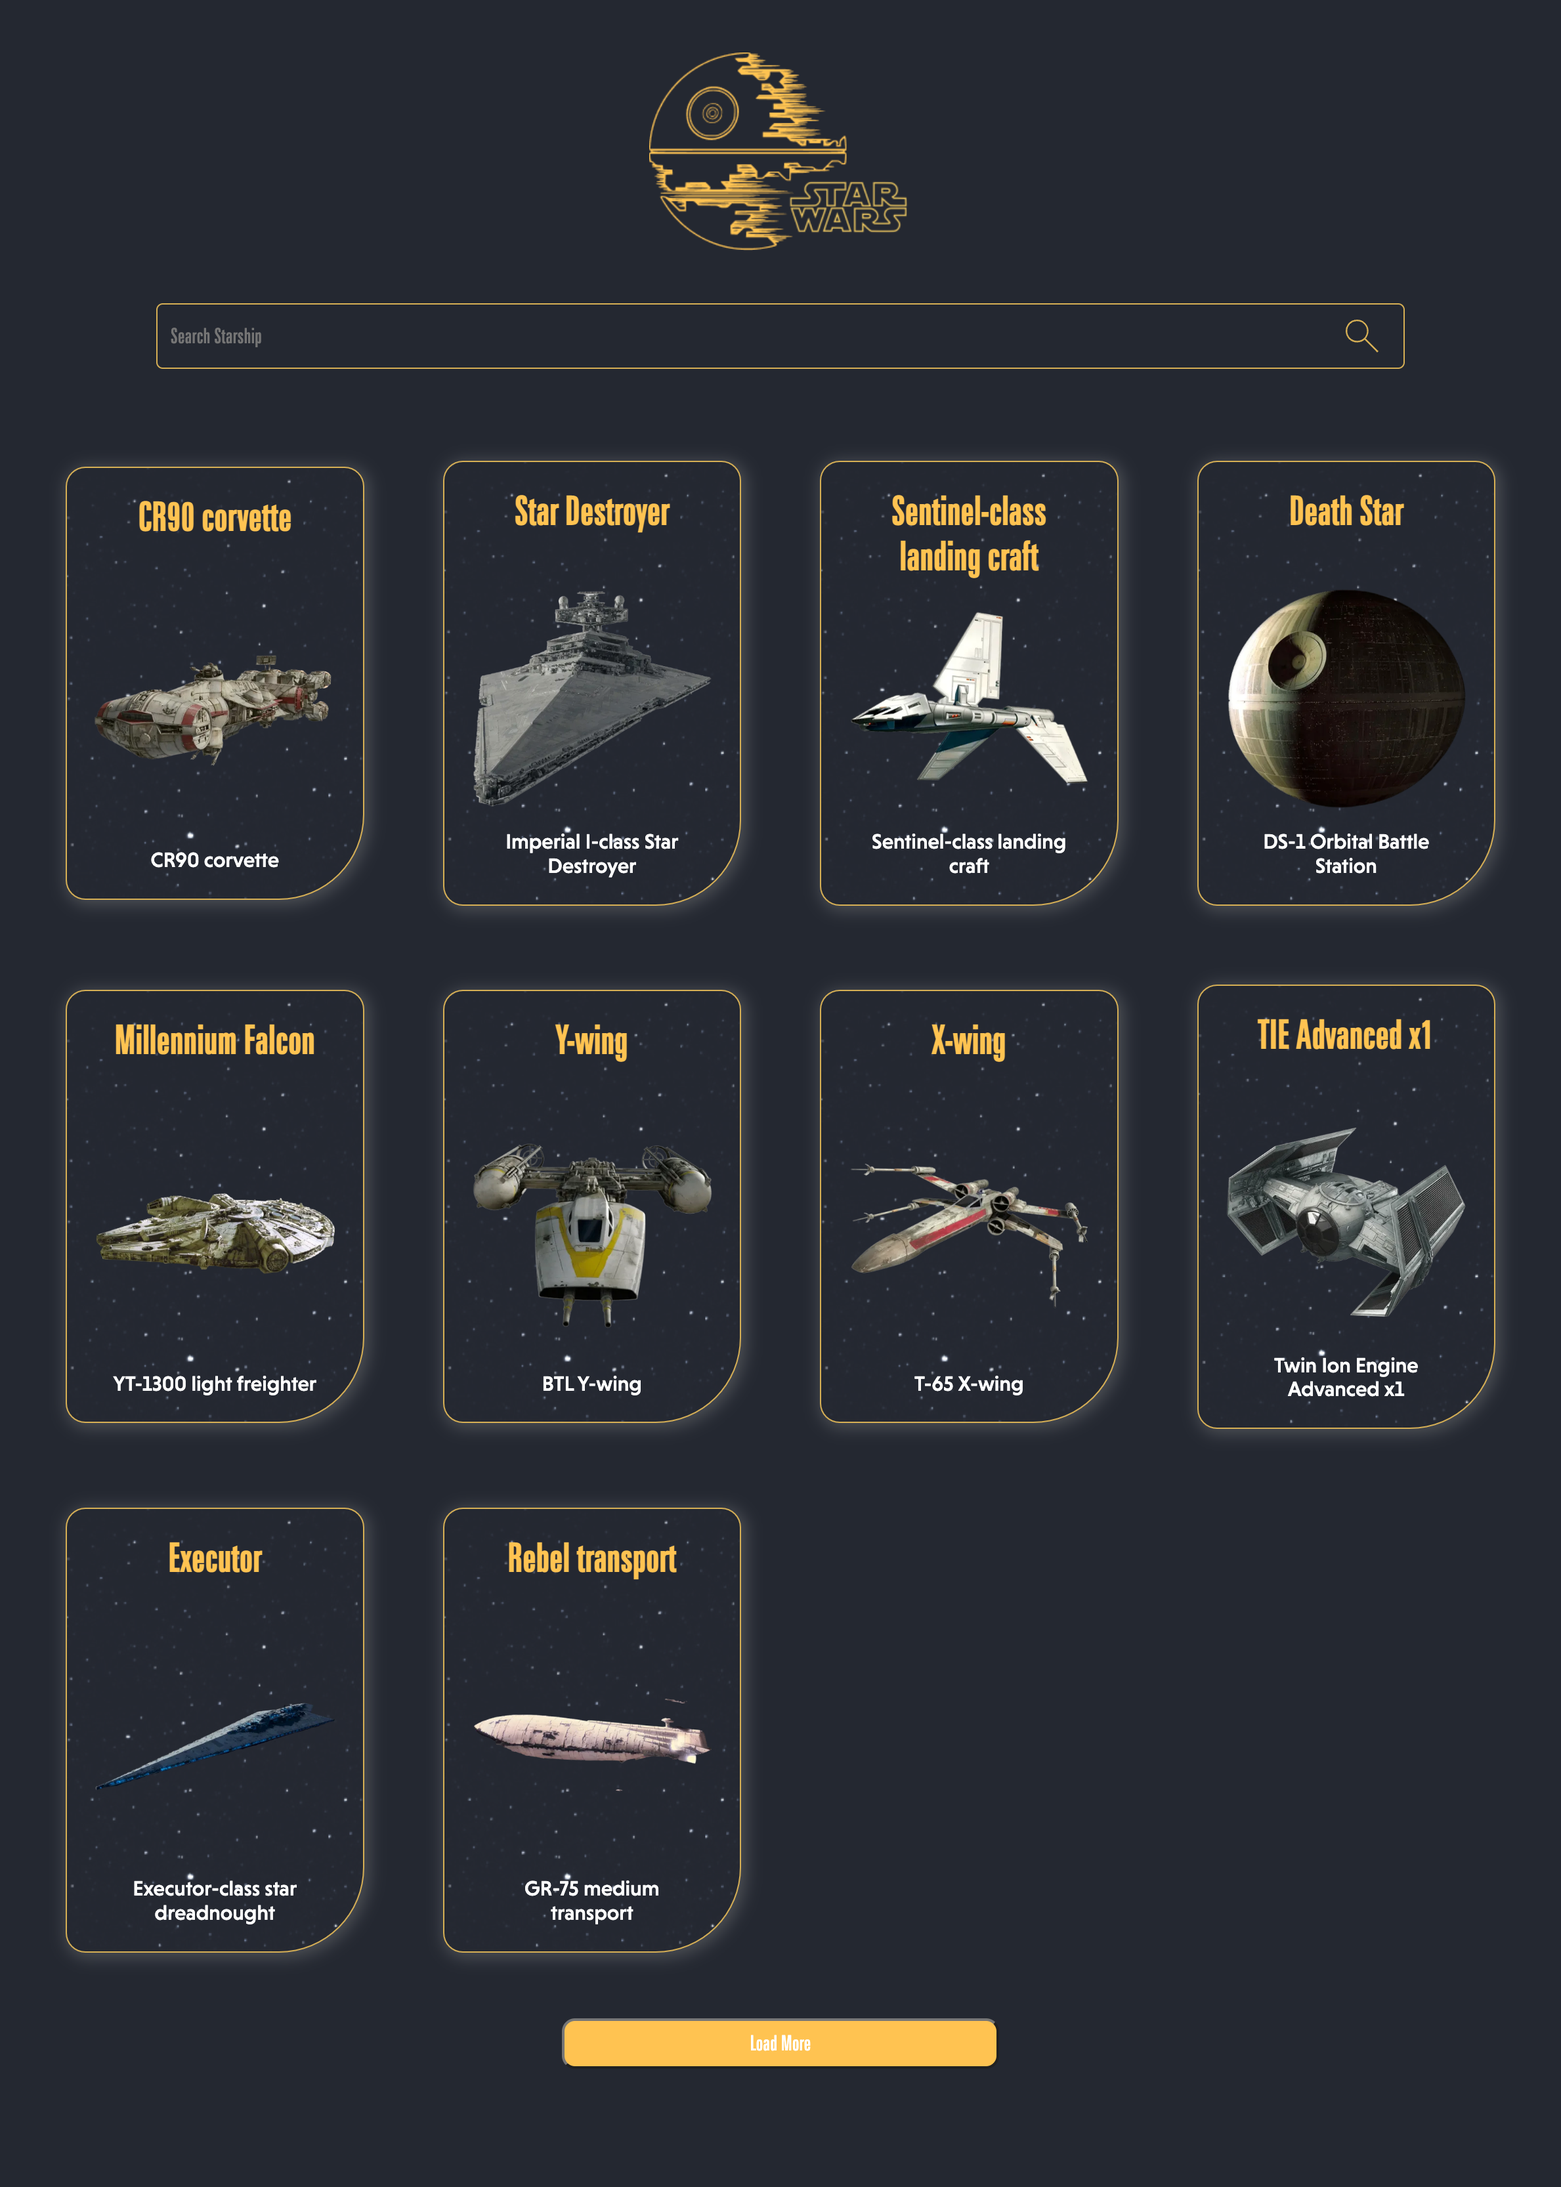
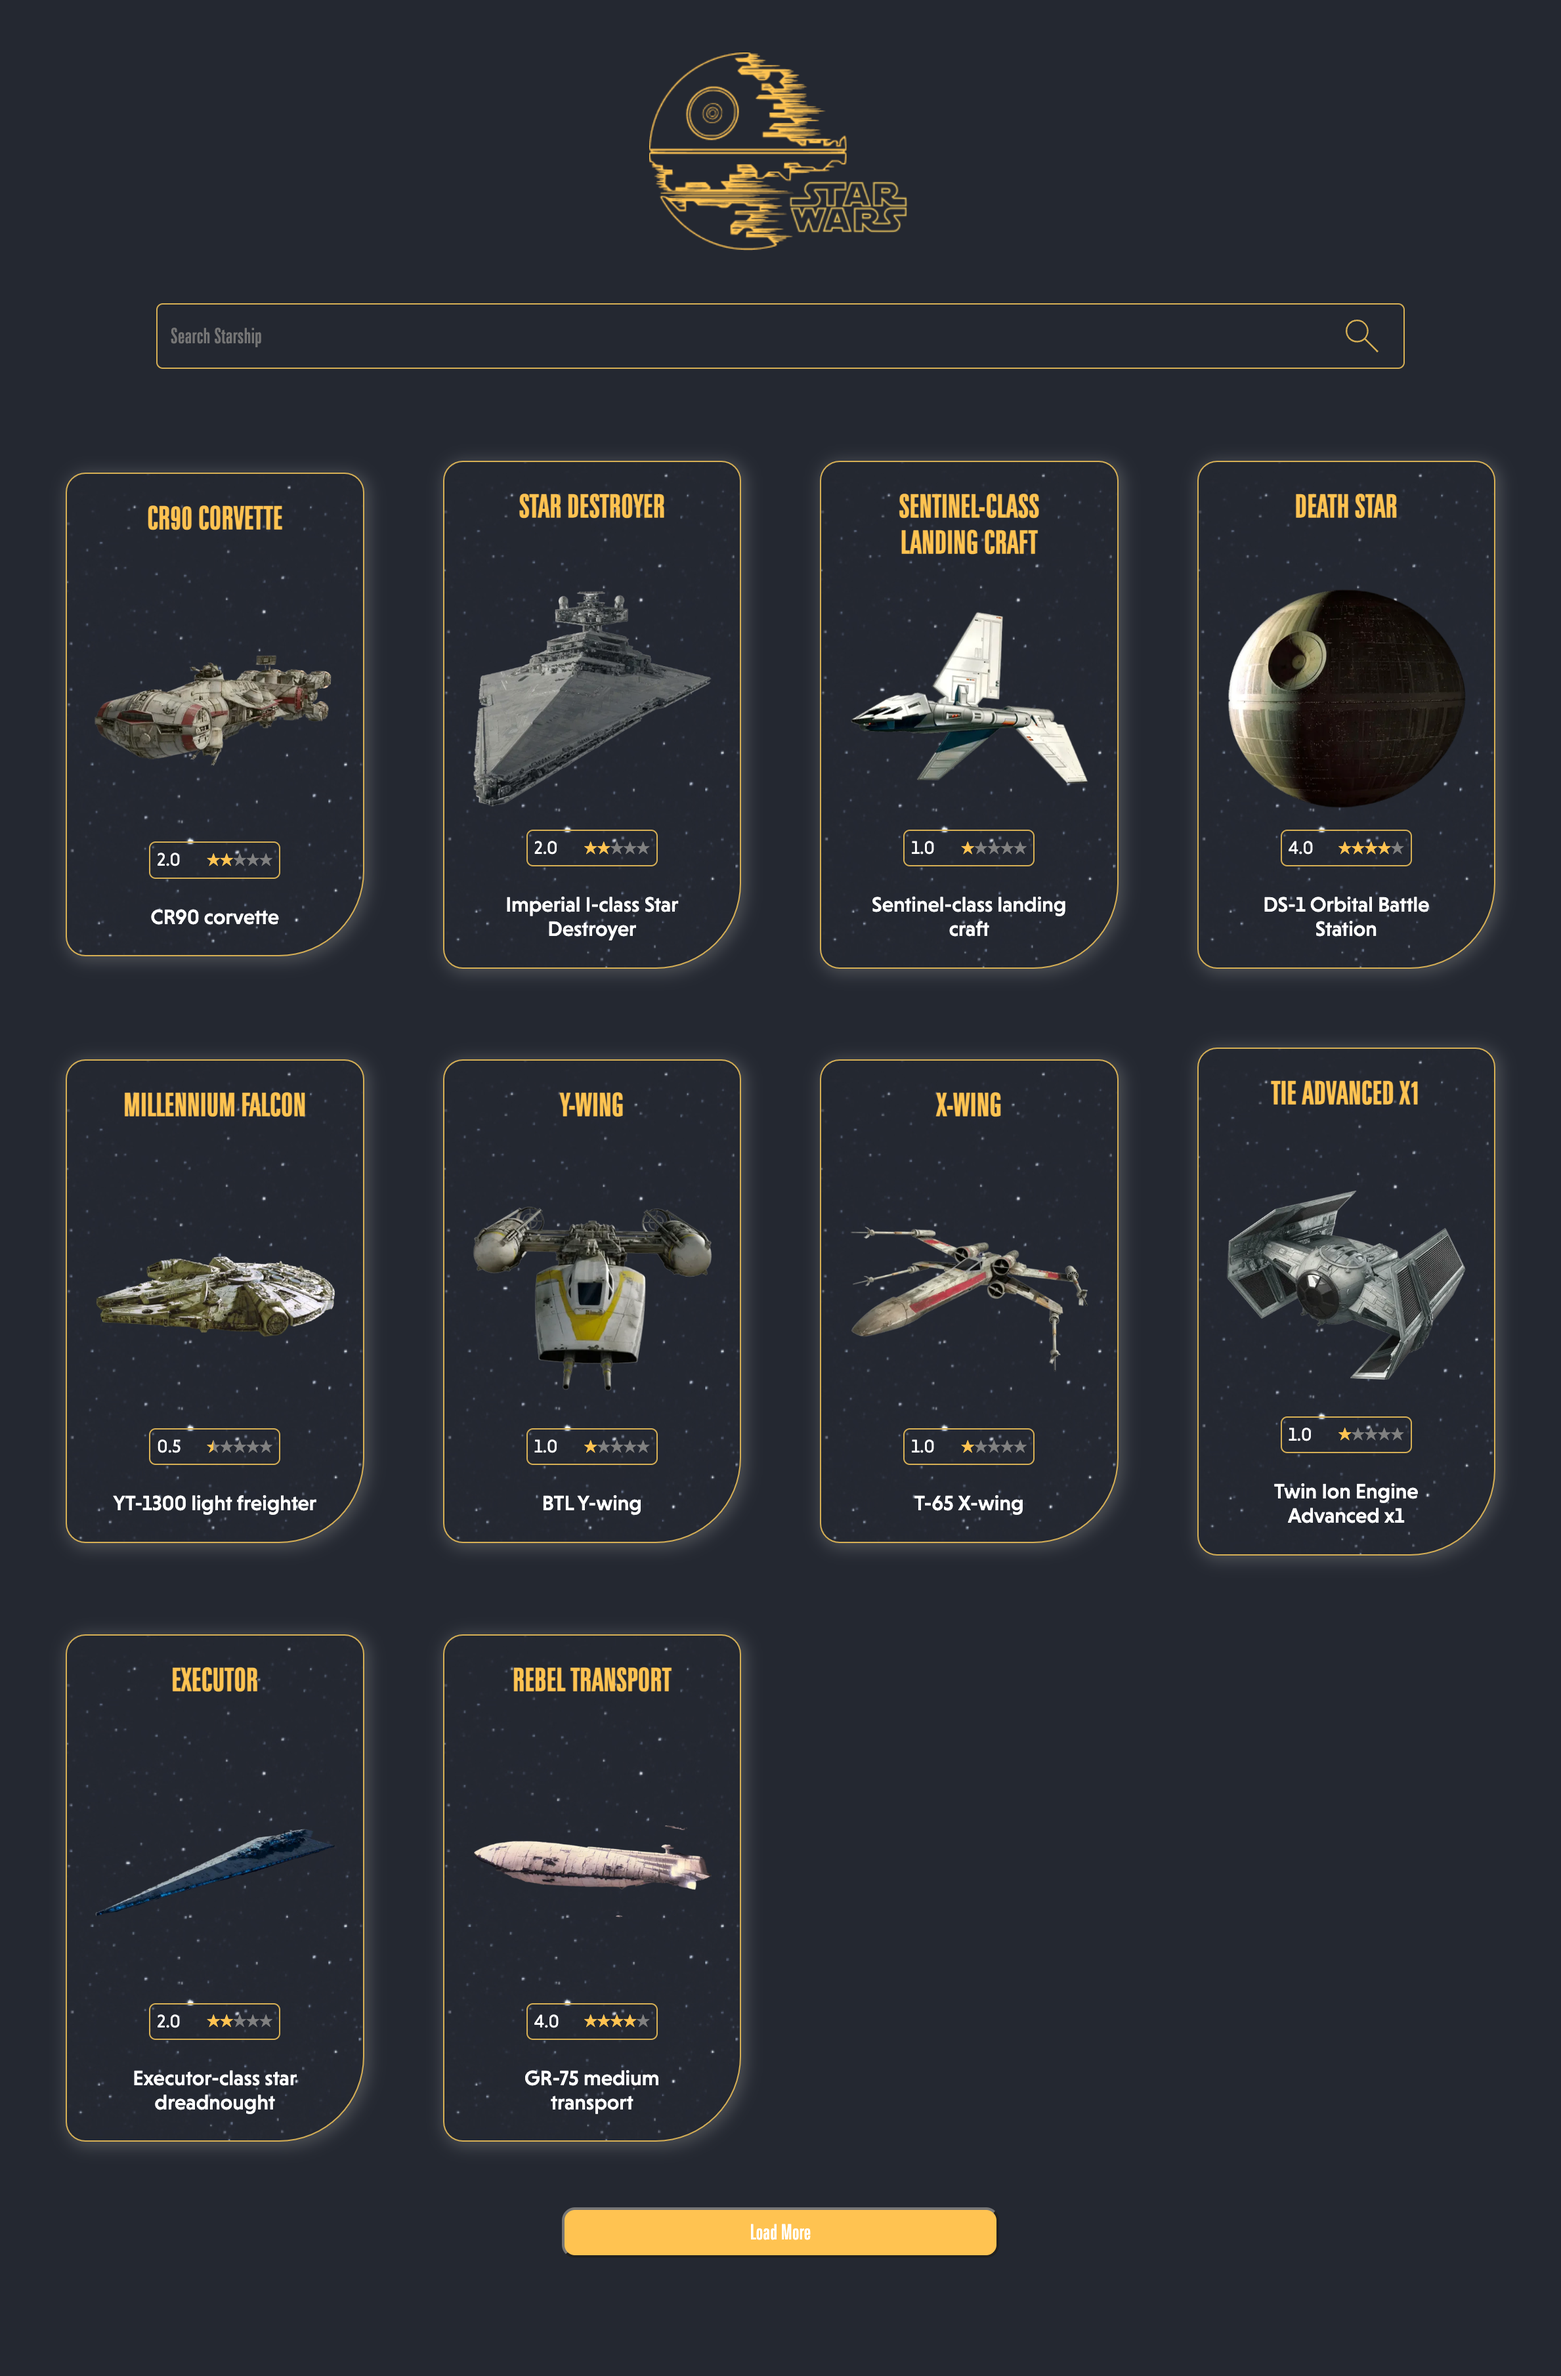
--amend

diff --git a/src/pages/Starships/components/StarshipCard/StarshipCard.jsx b/src/pages/Starships/components/StarshipCard/StarshipCard.jsx
@@ -1,6 +1,7 @@
 import React from 'react';
-import getStarshipId from '../../utils/getStarshipId';
 import ReactStars from 'react-rating-stars-component';
+
+import getStarshipId from '../../../../utils/getStarshipId';
 
 import {
   StyledStarshipCard,
@@ -10,7 +11,6 @@ import {
   StarshipHiperdriveRating,
   HiperdriveRaitingSkor
 } from './StarshipCard.styled';
-
 function StarshipCard({ starship, onClick }) {
   const { name, url, model, hyperdrive_rating } = starship;
   const id = getStarshipId(url);
@@ -20,18 +20,20 @@ function StarshipCard({ starship, onClick }) {
       <StarshipName>{name}</StarshipName>
 
       <StarshipImage
-        src={`https://ik.imagekit.io/p4ls2huzsz/starships/${id}.png?updatedAt=1664296476820`}
+        src={`https://ik.imagekit.io/p4ls2huzsz/belifkutlu/starships/${id}.png?updatedAt=1664720910553`}
       />
       <StarshipHiperdriveRating>
-        <HiperdriveRaitingSkor>{hyperdrive_rating}</HiperdriveRaitingSkor>
-        <ReactStars
-          count={5}
-          size={10}
-          activeColor="#FFC451"
-          value={Number(hyperdrive_rating)}
-          edit={false}
-          isHalf
-        />
+        <HiperdriveRaitingSkor> {hyperdrive_rating}</HiperdriveRaitingSkor>
+        {hyperdrive_rating !== 'unknown' && (
+          <ReactStars
+            count={5}
+            size={10}
+            activeColor="#FFC451"
+            value={Number(hyperdrive_rating)}
+            edit={false}
+            isHalf
+          />
+        )}
       </StarshipHiperdriveRating>
       <StarshipModel>{model}</StarshipModel>
     </StyledStarshipCard>

diff --git a/public/index.html b/public/index.html
@@ -5,10 +5,7 @@
     <link rel="icon" href="%PUBLIC_URL%/favicon.ico" />
     <meta name="viewport" content="width=device-width, initial-scale=1" />
     <meta name="theme-color" content="#000000" />
-    <meta
-      name="description"
-      content="Web site created using create-react-app"
-    />
+    <meta name="description" content="Web site created using create-react-app" />
     <link rel="apple-touch-icon" href="%PUBLIC_URL%/logo192.png" />
     <!--
       manifest.json provides metadata used when your web app is installed on a
@@ -24,7 +21,7 @@
       work correctly both with client-side routing and a non-root public URL.
       Learn how to configure a non-root public URL by running `npm run build`.
     -->
-    <title>React App</title>
+    <title>Starships</title>
   </head>
   <body>
     <noscript>You need to enable JavaScript to run this app.</noscript>

diff --git a/src/pages/Starships/Starships.jsx b/src/pages/Starships/Starships.jsx
@@ -42,9 +42,6 @@ function Starships() {
   };
 
   const handleSearch = async () => {
-    // I don't want to send unnecessary request for search.
-    if (state?.starships?.results.length && !query.trim()) return;
-
     try {
       dispatch({ type: 'SET_LOADING', payload: true });
       const response = await searchStarship(query);
@@ -55,7 +52,6 @@ function Starships() {
     }
   };
 
-  console.log(state);
   return (
     <Container>
       <StarwarsLogo />

diff --git a/src/pages/StarshipDetail/StarshipDetail.jsx b/src/pages/StarshipDetail/StarshipDetail.jsx
@@ -65,7 +65,7 @@ function StarshipDetail() {
         <StarshipContent>
           <StarshipImagesGroup>
             <StarshipImage
-              src={`https://ik.imagekit.io/p4ls2huzsz/starships/${id}.png?updatedAt=1664296476820`}
+              src={`https://ik.imagekit.io/p4ls2huzsz/belifkutlu/starships/${id}.png?updatedAt=1664720910553`}
               alt="/"
             />
             <ShadowImage src={shadow} alt="" />

diff --git a/src/pages/Starships/components/StarshipList/StarshipList.jsx b/src/pages/Starships/components/StarshipList/StarshipList.jsx
@@ -1,7 +1,7 @@
 import React from 'react';
 import { useNavigate } from 'react-router-dom';
 
-import StarshipCard from '../../../../components/StarshipCard';
+import StarshipCard from '../StarshipCard';
 import LoadMoreButton from '../../../../components/LoadMoreButton';
 
 import { NoStarship, StyledStarshipList } from './StarshipList.styled';

diff --git a/src/pages/Starships/components/StarshipCard/StarshipCard.styled.js b/src/pages/Starships/components/StarshipCard/StarshipCard.styled.js
@@ -1,5 +1,5 @@
 import styled from 'styled-components';
-import bgimg from '../../assests/images/Background.jpg';
+import bgimg from '../../../../assests/images/Background.jpg';
 
 export const StyledStarshipCard = styled.div`
   display: flex;

diff --git a/README.md b/README.md
@@ -12,7 +12,7 @@
     <a href="https://github.com/belifkutlu/iyzico-frontend-practicum-final-case"><strong>Explore the docs »</strong></a>
     <br />
     <br />
-    <a href="https://starships-iyzico-final-case.netlify.app/">View Demo</a>
+    <a target="_blank" href="https://starships-iyzico-final-case.netlify.app/">View Demo</a>
     ·
     <a href="https://github.com/belifkutlu/iyzico-frontend-practicum-final-case/issues">Report Bug</a>
     ·
